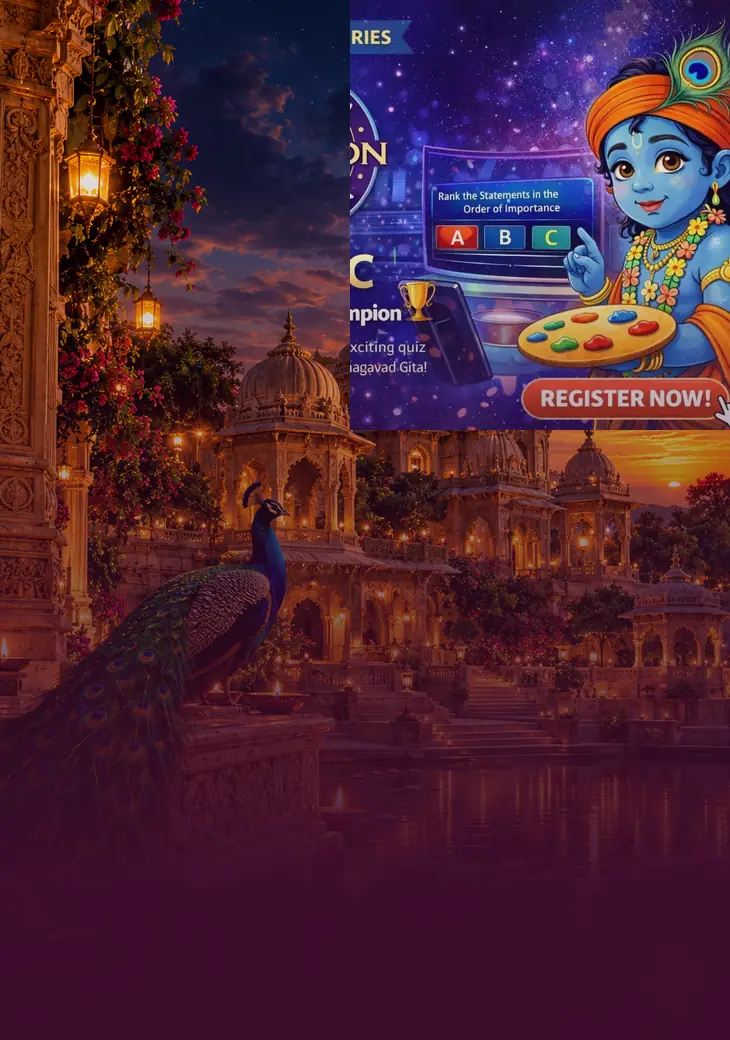
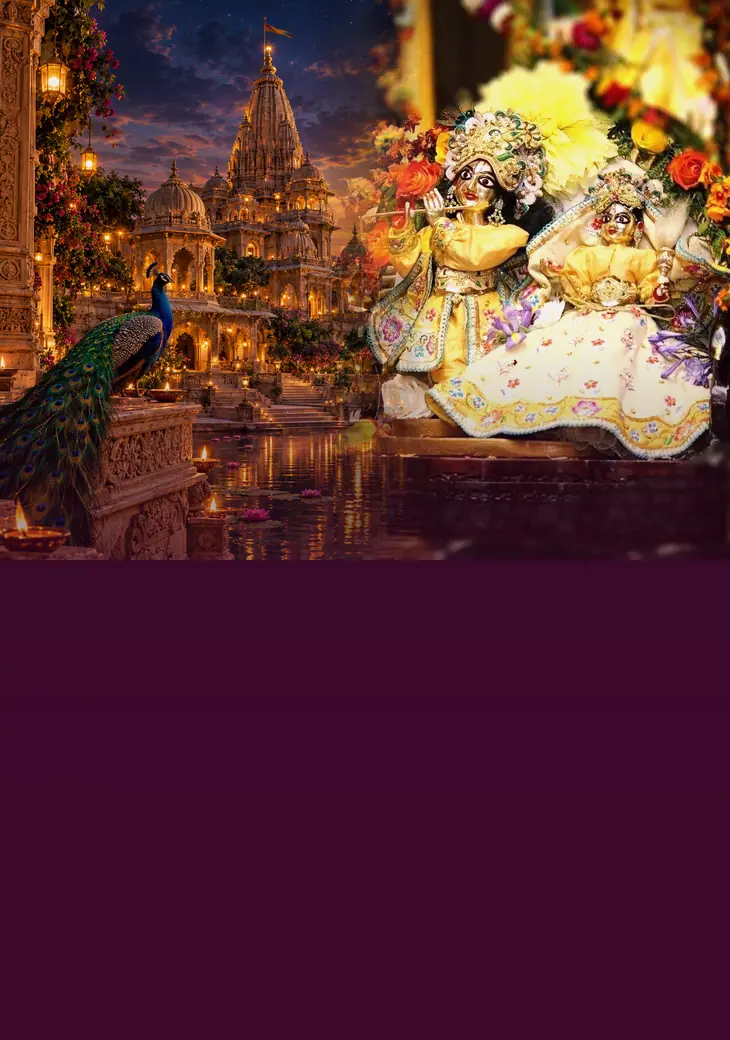
Replace hero with real deity altar image and fix missing decorative lotus asset

diff --git a/temple/ASSET-README.md b/temple/ASSET-README.md
@@ -1,1 +1,17 @@
-The independently hosted temple pages use local repository SVG artwork in temple/assets and existing root images hero-bg.png. Richer photographic asset pack with 33 optimized files was generated separately; this repository uses local fallback artwork until photographic files are uploaded. Generated art is illustrative; replace with verified ISKCON Hadapsar photos where needed.
+# ISKCON Hadapsar — independent photographic website assets
+
+This repository now contains actual optimized WebP images in `temple/assets/`, not remote-linked placeholder images. Sources are publicly displayed temple website media and the existing repository's visual material. We own the deployed file copies in GitHub and no longer depend on the former Hostinger media server for the new pages.
+
+## Asset inventory
+- Desktop and mobile photographic hero compositions, plus deity and temple-related image crops.
+- Five program banners: Bhagavat Katha, Gita Mahayagna, Drawing Competition, Dindi, Prabhupada Prasad.
+- Three festival images: Janmashtami, Rath Yatra and Kartik.
+- Portrait, devotees and supporting images.
+- Local official-site logo asset and existing decorative SVG files: lotus, peacock feather, gold dividers, icons and textures.
+
+Images were sourced from the public ISKCON Hadapsar website and local project artwork. Some source images are photographs; some are devotional paintings/illustrations. **The hero background is an editorial composite, not a verified exterior photograph of the Hadapsar temple.** The dates on past competition pages are preserved as archive items, not active registration.
+
+## Visual system
+`temple/atelier.css` controls the editorial typography, five-program collection, photo-driven festivals, hero and mobile treatment. `temple/temple.js` implements accessible navigation and viewport-aware reveals, disabled by `prefers-reduced-motion`.
+
+The original Diksha invitation at `/` and its admin panel at `/admin` remain unchanged.
